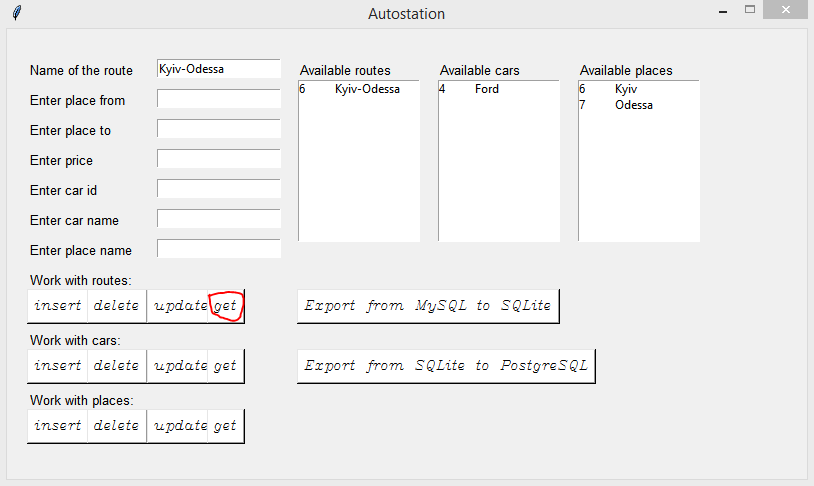
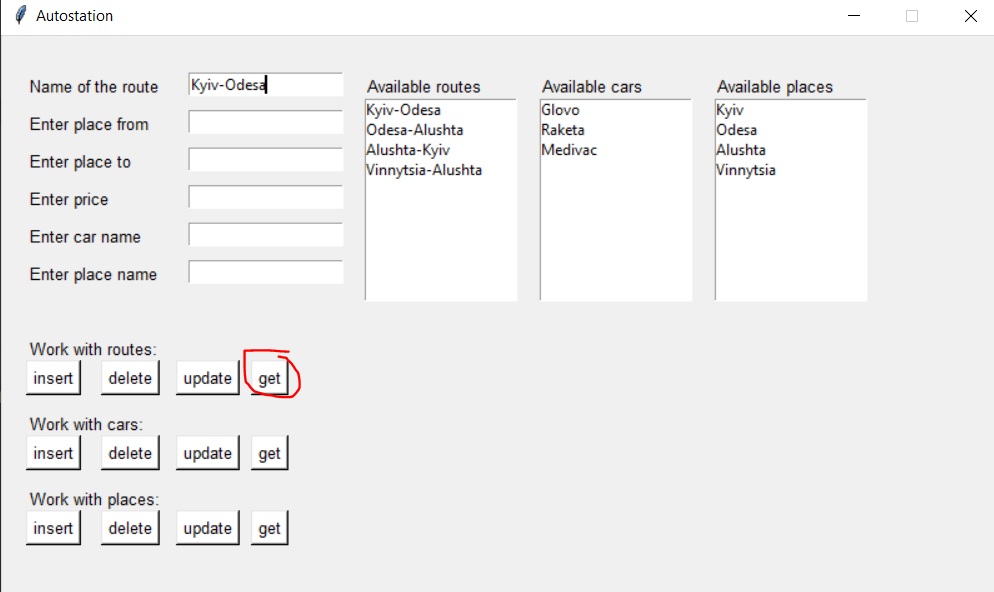
deploy: 768b51cb879361867cb90e1e663d1e3af995ae82

diff --git a/autostation/index.html b/autostation/index.html
@@ -654,8 +654,6 @@
 <li>update data;</li>
 <li>delete data;</li>
 <li>get data;</li>
-<li>export data from <em>MySQL</em> to <em>SQLite</em>;</li>
-<li>export data from <em>SQLite</em> to <em>PostgreSQL</em>.</li>
 </ul>
 <h2 id="routes">Routes</h2>
 <h3 id="insert">Insert</h3>
@@ -680,9 +678,7 @@ like this and then press button "update" in the section "Work with routes":</p>
 "Work with cars":</p>
 <p><img alt="" src="../images/InsertCars.png" /></p>
 <h3 id="update_1">Update</h3>
-<p>To update a car you need to fill the <strong>id of the car</strong> and changed <strong>name of the car</strong> like this and then press button
-"update" in the section "Work with routes":</p>
-<p><img alt="" src="../images/UpdateCars.png" /></p>
+<p>You can't to update the place in our app.</p>
 <h3 id="delete_1">Delete</h3>
 <p>To delete a car you need to fill the <strong>id of the car</strong> like this and then press button "delete" in the section
 "Work with cars":</p>
@@ -697,7 +693,7 @@ like this and then press button "update" in the section "Work with routes":</p>
 "Work with places":</p>
 <p><img alt="" src="../images/InsertPlaces.png" /></p>
 <h3 id="update_2">Update</h3>
-<p>You can't to update the place in our app</p>
+<p>You can't to update the place in our app.</p>
 <h3 id="delete_2">Delete</h3>
 <p>To delete a place you need to fill the <strong>name of the place</strong> like this and then press button "delete" in the section
 "Work with places":</p>
